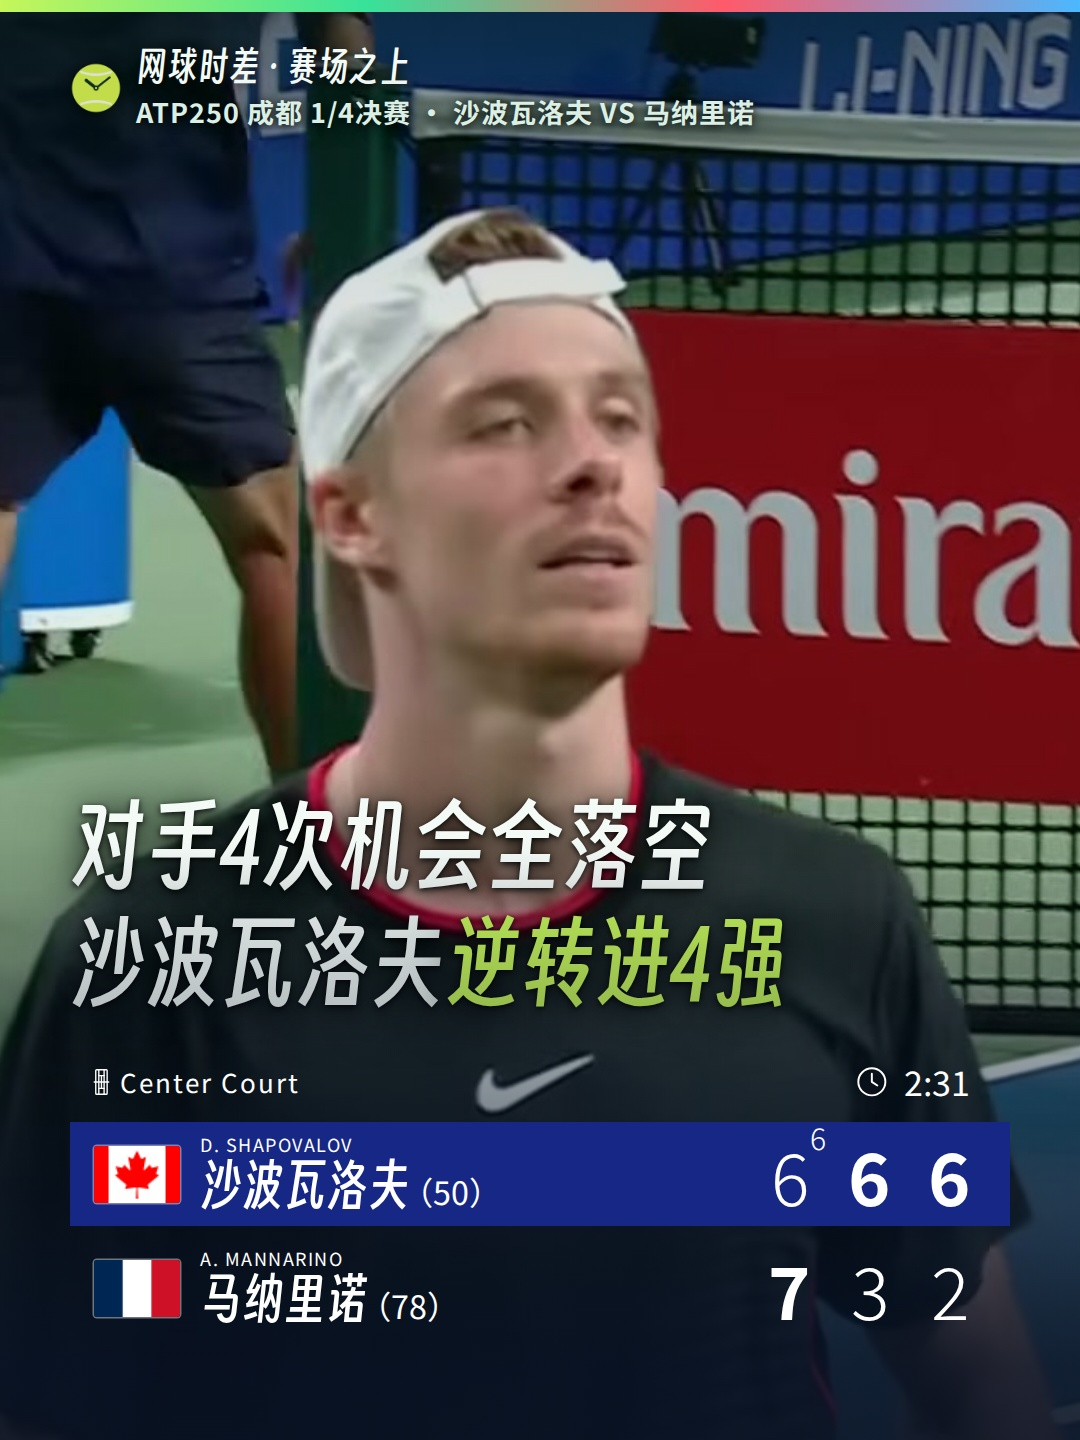
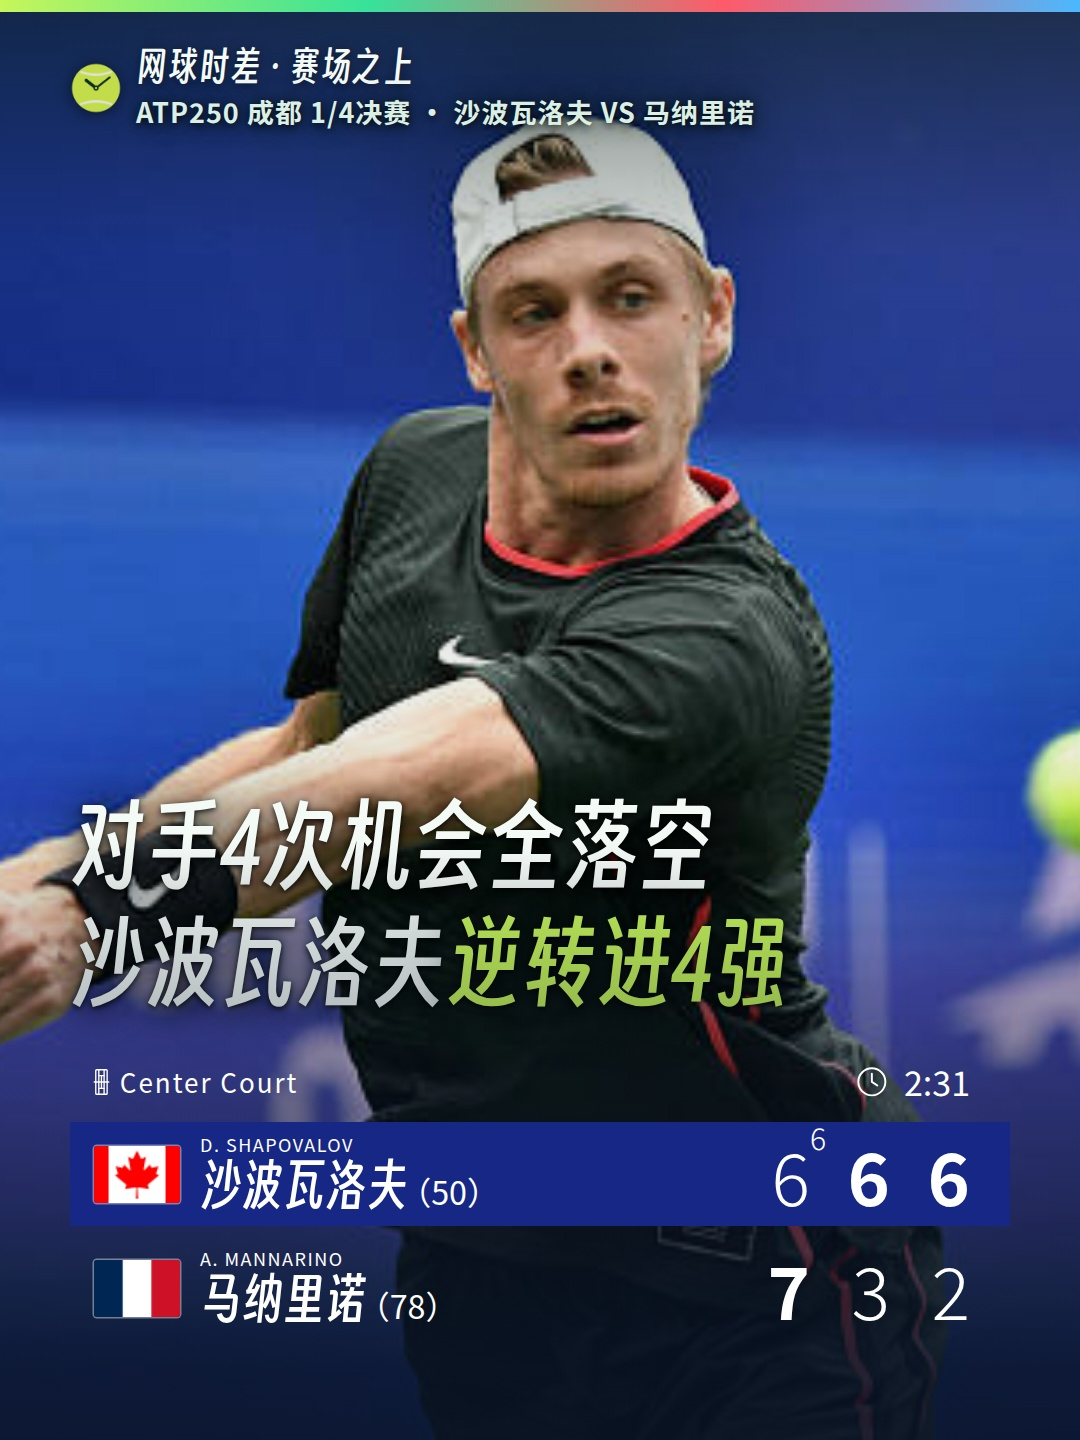
reel: mannarino-shapovalov 封面换成账号所有者给的反手击球实拍（612×408，focus 0.78 居中），撤出 OWNER_APPROVED_FRAME_COVERS
Claude-Session: https://claude.ai/code/session_01USKX193HDCfSrAeuUFRZMW

diff --git a/tools/build_match_reel.py b/tools/build_match_reel.py
@@ -7154,10 +7154,6 @@ COVER_FILL_W, COVER_FILL_H = 1080, 1440
 #: - **2026-09-26 起**账号所有者给了常设授权：「没有高清大图可备选的话，抽帧也
 #:   可以，但是要尽量清晰偏正面的图片」（CLAUDE.md 同名一节）。之后的条目不用再
 #:   逐条问，但照旧要在这里登记一行、在 spec 的 `_frame_why` 写清四类源各查了什么。
-#: - `mannarino-shapovalov-chengdu-2026-qf`：2026-09-27 成都 ATP250 1/4决赛（北京 19:11
-#:   打完）。按上面那条常设授权走：终场后约 40 分钟，find_cover_photo 查 AP、WTA
-#:   photo-resources 都是 0，赛后稿和组委会图都还没有。用 206.0s 正脸、双眼睁着的近景，
-#:   源片 1920×1080，放大 1.6 倍。
 OWNER_APPROVED_FRAME_COVERS = frozenset({
     "safiullin-bu-hangzhou-2026-qf",  # Standing authorization; source-frame evidence in spec.
     "wu-duckworth-us-open-2026-r2",
@@ -7167,7 +7163,6 @@ OWNER_APPROVED_FRAME_COVERS = frozenset({
     "medvedev-royer-hangzhou-2026-r2",
     "wong-vallejo-hangzhou-2026-r2",
     "rublev-gaston-hangzhou-2026-qf",
-    "mannarino-shapovalov-chengdu-2026-qf",
 })
 
 #: 「封面大图一律用官方高清实拍」这条规矩（账号所有者 2026-08-16 重申）立起来
